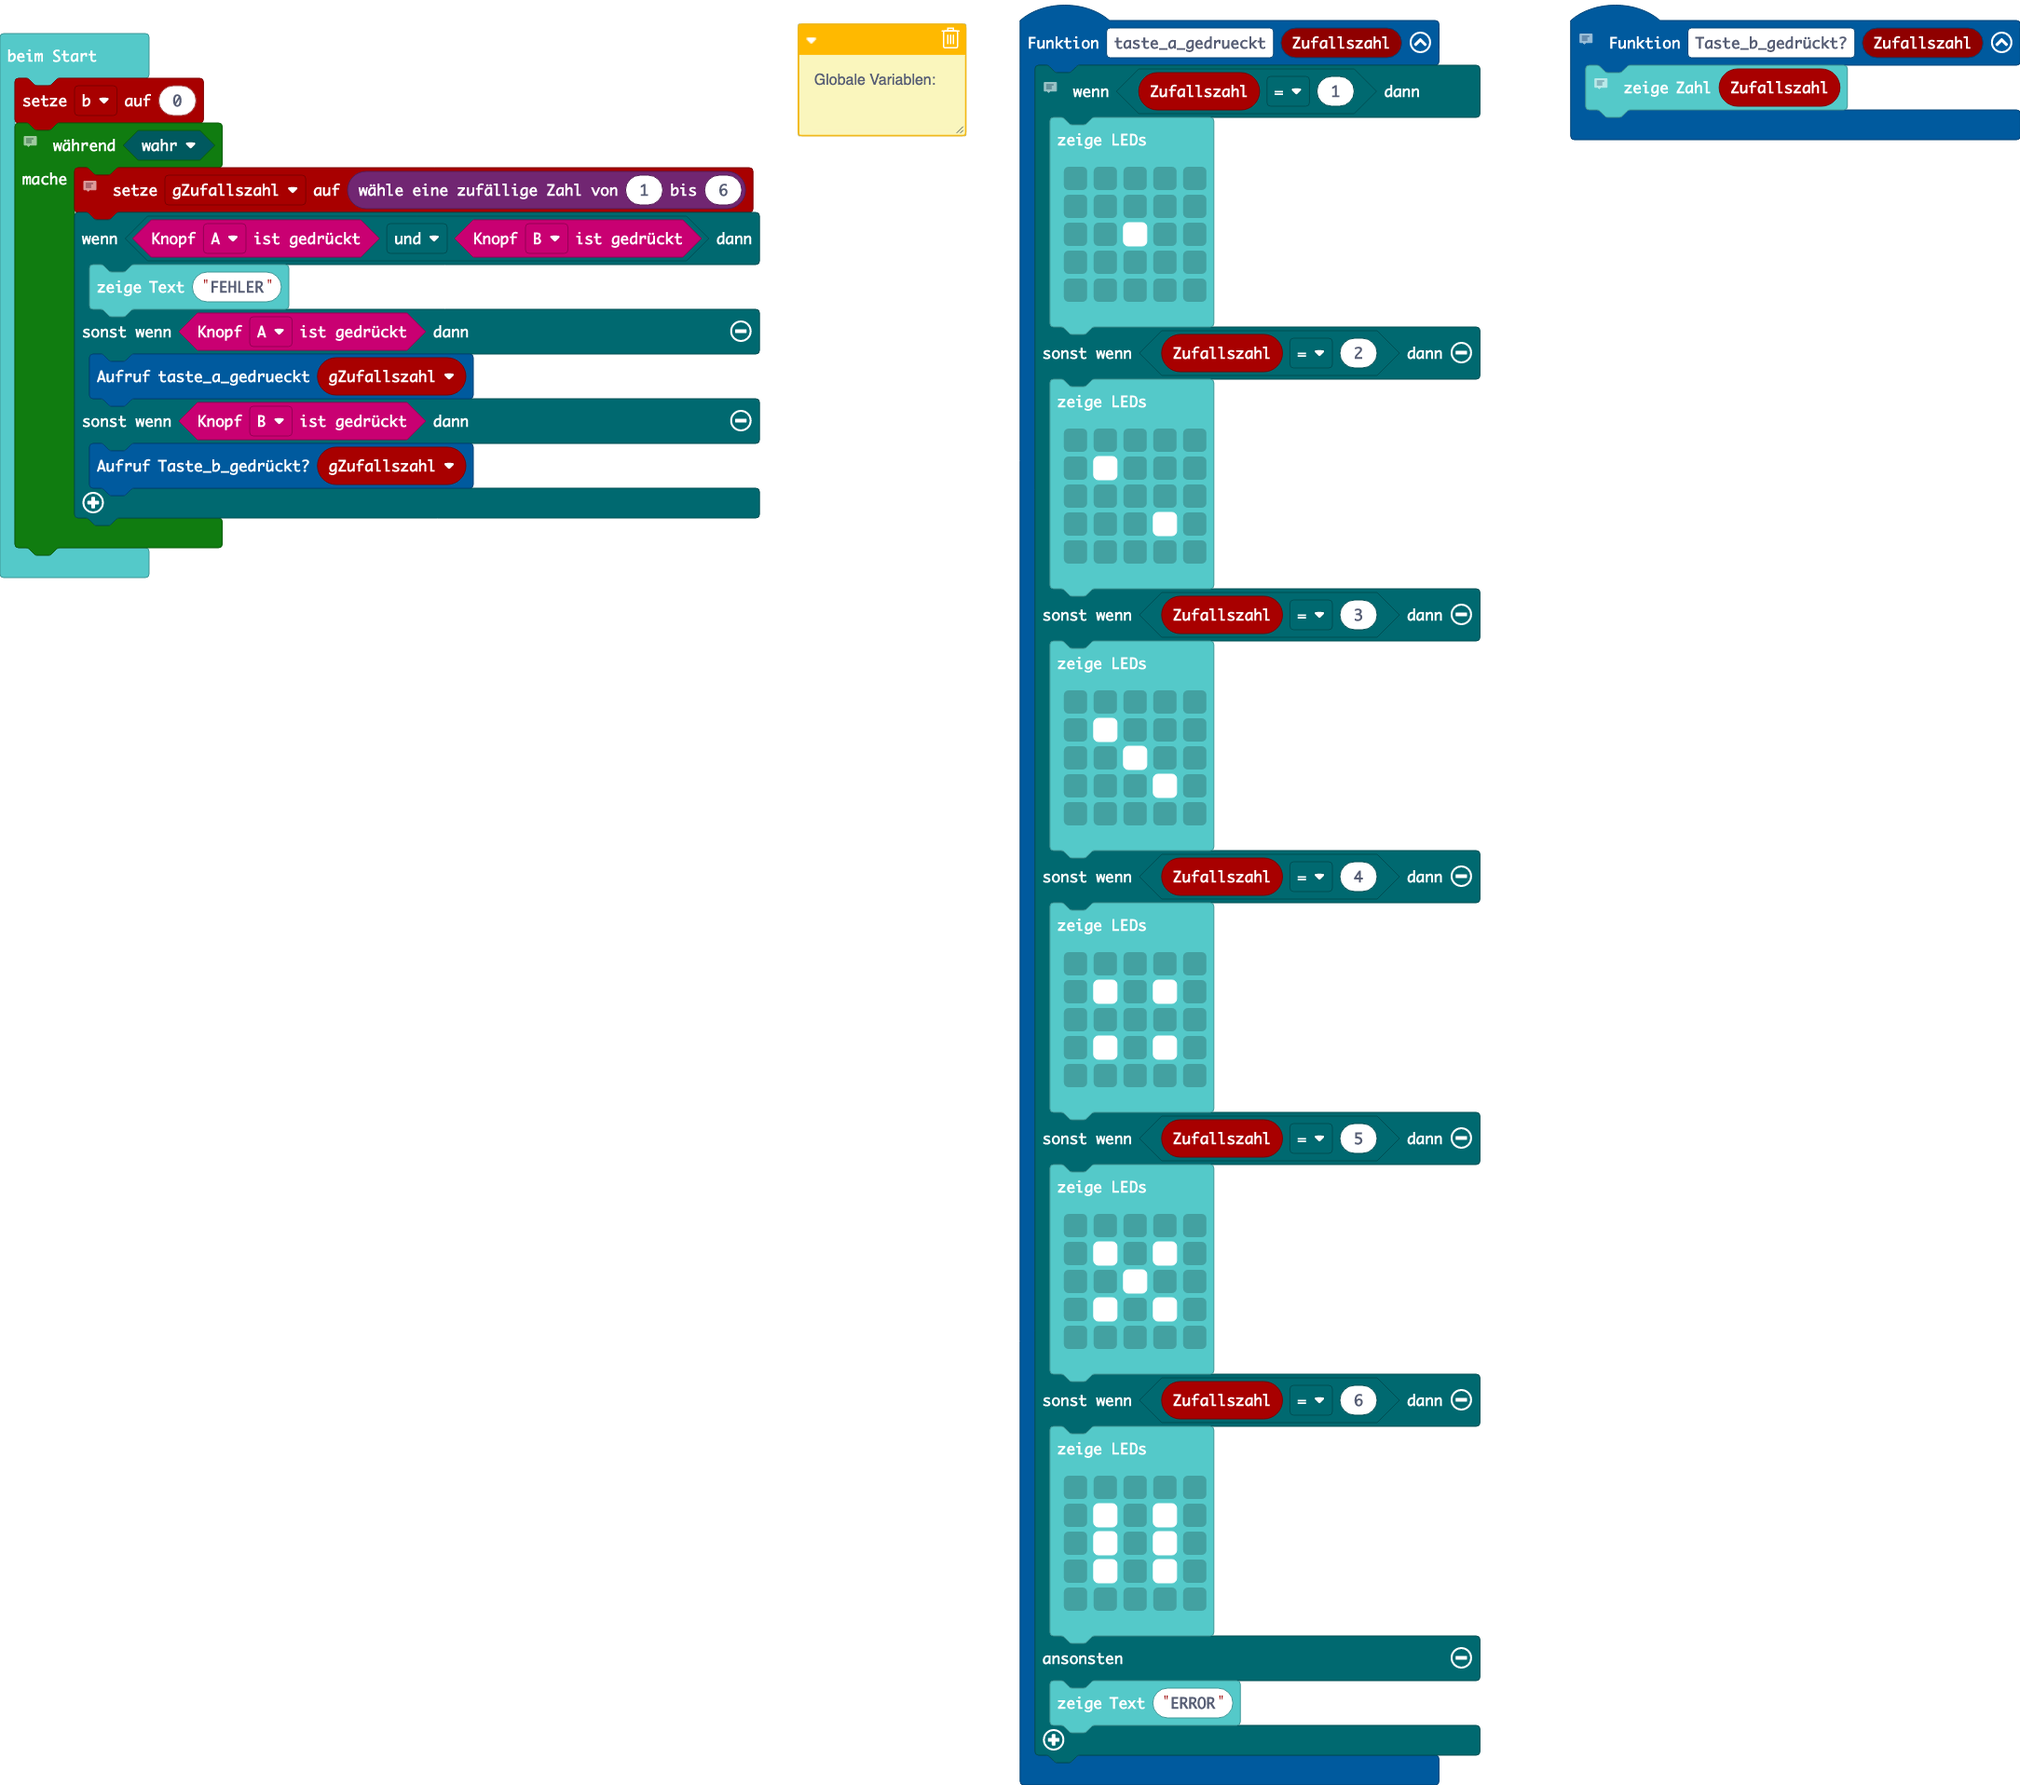
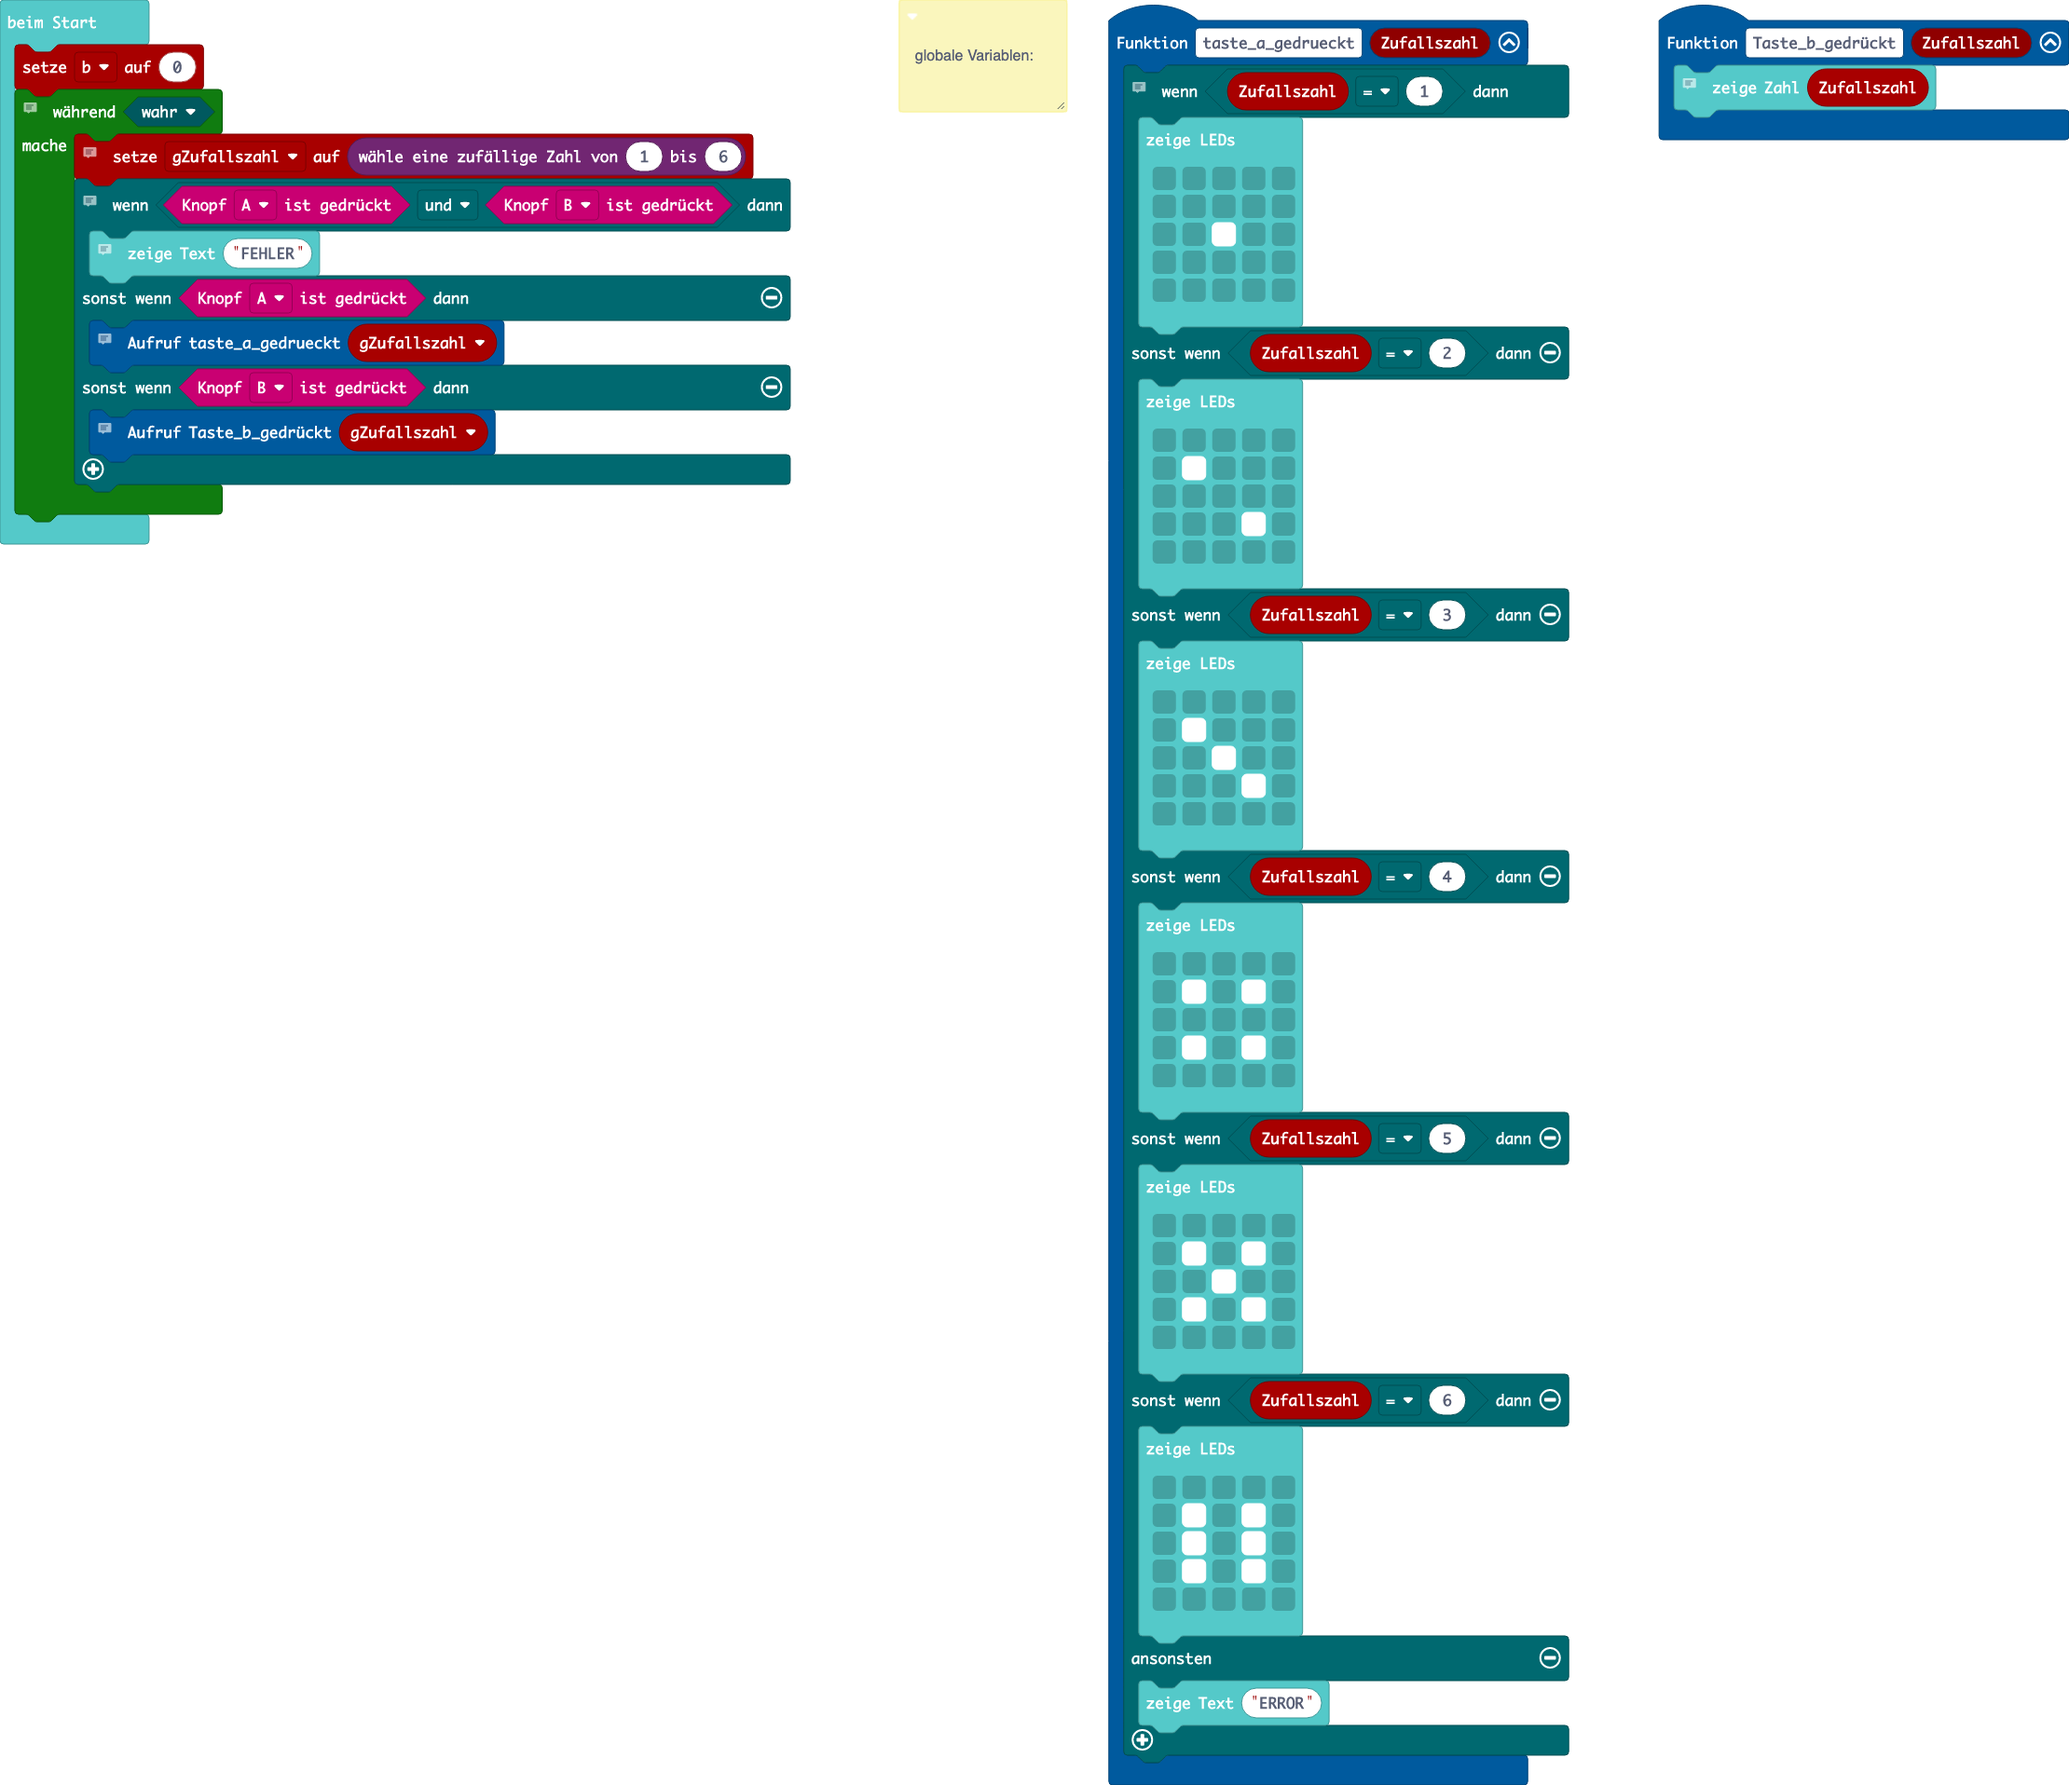
Aktualisiere main.blocks, main.ts, main.py

Changed region(s): [[0.0, 0.0, 0.9889, 1.0], [0.7108, 0.893, 0.7726, 1.0]]

diff --git a/main.ts b/main.ts
@@ -1,6 +1,8 @@
-//  globale Variablen:
-let gZufallszahl = 0
-let b = 0
+function Taste_b_gedrückt(Zufallszahl: number) {
+    //  Anzeige der Zufallszahls als Zahl
+    basic.showNumber(Zufallszahl)
+}
+
 function taste_a_gedrueckt(Zufallszahl: number) {
     //  Anzeige der Zufallszahl als Augen
     if (Zufallszahl == 1) {
@@ -57,17 +59,15 @@ function taste_a_gedrueckt(Zufallszahl: number) {
     
 }
 
-function Taste_b_gedrückt(Zufallszahl: number) {
-    //  Anzeige der Zufallszahls als Zahl
-    basic.showNumber(Zufallszahl)
-}
-
+/** globale Variablen: */
+let gZufallszahl = 0
+let b = 0
 //  ###########################################
 //  Hauptprogramm
 while (true) {
     //  Zufallszahl zwischen 1 und 6 ermitteln und in Variable gZufallszahl speichern:
     gZufallszahl = randint(1, 6)
-    //  Überprüfung der Tasten 
+    //  Überprüfung der Tasten
     if (input.buttonIsPressed(Button.A) && input.buttonIsPressed(Button.B)) {
         //  Tasten A und B gleichzeitig
         basic.showString("FEHLER")

diff --git a/main.py b/main.py
@@ -1,7 +1,7 @@
-# globale Variablen:
-gZufallszahl = 0
-b = 0
-
+def Taste_b_gedrückt(Zufallszahl: number):
+    # Anzeige der Zufallszahls als Zahl
+    basic.show_number(Zufallszahl)
+    
 def taste_a_gedrueckt(Zufallszahl: number):
     # Anzeige der Zufallszahl als Augen
     if Zufallszahl == 1:
@@ -54,18 +54,19 @@ def taste_a_gedrueckt(Zufallszahl: number):
             """)
     else:
         basic.show_string("ERROR")
+"""
 
-def Taste_b_gedrückt(Zufallszahl: number):
-    # Anzeige der Zufallszahls als Zahl
-    basic.show_number(Zufallszahl)
+globale Variablen:
 
-
+"""
+gZufallszahl = 0
+b = 0
 # ###########################################
 # Hauptprogramm
 while True:
     # Zufallszahl zwischen 1 und 6 ermitteln und in Variable gZufallszahl speichern:
     gZufallszahl = randint(1, 6)
-    # Überprüfung der Tasten 
+    # Überprüfung der Tasten
     if input.button_is_pressed(Button.A) and input.button_is_pressed(Button.B):
         # Tasten A und B gleichzeitig
         basic.show_string("FEHLER")
